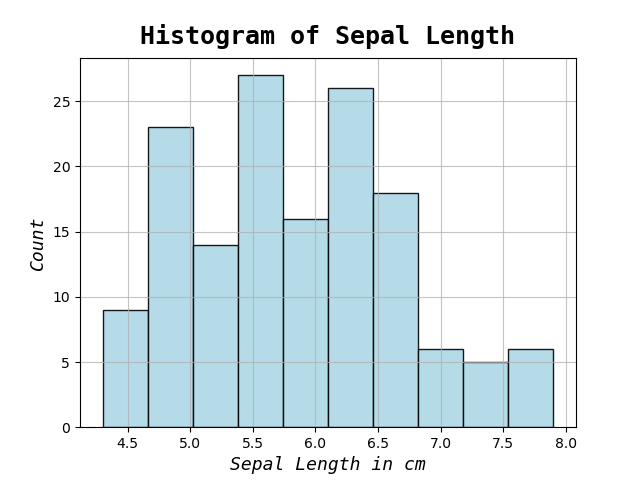
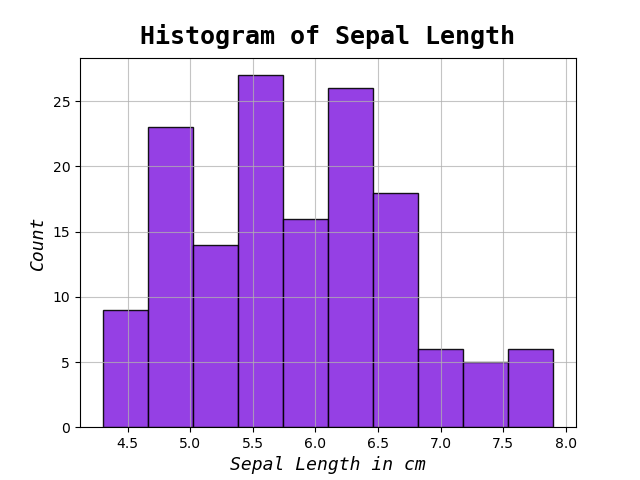
Project histogram updates

Changed region(s): [[0.1562, 0.1562, 0.875, 0.9062]]

diff --git a/analysis.py b/analysis.py
@@ -82,7 +82,7 @@ with open("summary.txt", "a",                       # get buffer content and app
 df.hist("sepal_length",                         # Creating a Histogram only of Sepal Length "iris_histogram_sepal_length.png"             
 ec = "black",                                   # The ec (edge color) parameter define an edge on each bar with black outline.
 lw = 1.0,                                       # The lw (line width) can be increased
-color ="lightblue",                             # The color parameter sets the color of the bars in the histogram.
+color ="blueviolet",                             # The color parameter sets the color of the bars in the histogram.
 alpha = 0.9,                                    # The alpha parameter sets the transparency of the bars.
 label="Sepal Length")                           # Creating a Histogram only of Sepal Length
 
@@ -117,8 +117,8 @@ plt.savefig("iris_histogram_sepal_length.png")
 # iris_histogram_sepal_width.png
 df.hist("sepal_width",                          # Creating a Histogram only of Sepal Width = "iris_histogram_sepal_width.png"         
 ec = "black",                                   # The ec (edge color) parameter define an edge on each bar with black outline.
-lw = 1.0,                                      # The lw (line width) can be increased
-color ="lightblue",                             # The color parameter sets the color of the bars in the histogram.
+lw = 1.0,                                       # The lw (line width) can be increased
+color ="fuchsia",                                # The color parameter sets the color of the bars in the histogram.
 alpha = 0.9,                                    # The alpha parameter sets the transparency of the bars.
 label="Sepal Width")                            # Creating a Histogram only of Sepal Width
 
@@ -152,8 +152,8 @@ plt.savefig("iris_histogram_sepal_width.png")
 # iris_histogram_petal_length.png    
 df.hist("petal_length",                         # Creating a Histogram only of Petal Length "iris_histogram_petal_length.png"             
 ec = "black",                                   # The ec (edge color) parameter define an edge on each bar with black outline.
-lw = 1.0,                                      # The lw (line width) can be increased
-color ="lightblue",                             # The color parameter sets the color of the bars in the histogram.
+lw = 1.0,                                       # The lw (line width) can be increased
+color ="blue",                                  # The color parameter sets the color of the bars in the histogram.
 alpha = 0.9,                                    # The alpha parameter sets the transparency of the bars.
 label="Sepal Length")                           # Creating a Histogram only of Sepal Length
 
@@ -189,7 +189,7 @@ plt.savefig("iris_histogram_petal_length.png")
 df.hist("petal_width",                          # Creating a Histogram only of Petal Width = "iris_histogram_petal_width.png"         
 ec = "black",                                   # The ec (edge color) parameter define an edge on each bar with black outline.
 lw = 1.0,                                      # The lw (line width) can be increased
-color ="lightblue",                             # The color parameter sets the color of the bars in the histogram.
+color ="deepskyblue",                             # The color parameter sets the color of the bars in the histogram.
 alpha = 0.9,                                    # The alpha parameter sets the transparency of the bars.
 label="Petal Width")                            # Creating a Histogram only of Sepal Width
 
@@ -220,163 +220,4 @@ plt.savefig("iris_histogram_petal_width.png")
 
 # plt.show()                                    # show & comment out
 
-plt.close("all") # closing all previous open plots. 
-                 # If not closed here, they will show up from below, when outputting next plots
-
-# TRYING TO GET ALL ONE ONE HISTOGRAM
-
-fig, axs = plt.subplots(2, 2, figsize=(12, 8))
-
-# iris_histogram_sepal_length.png    
-df.hist("sepal_length",                         # Creating a Histogram only of Sepal Length "iris_histogram_sepal_length.png" 
-ax=axs[0, 0],            
-ec = "black",                                   # The ec (edge color) parameter define an edge on each bar with black outline.
-lw = 1.0,                                       # The lw (line width) can be increased
-color ="lightblue",                             # The color parameter sets the color of the bars in the histogram.
-alpha = 0.9,                                    # The alpha parameter sets the transparency of the bars.
-label="Sepal Length")                           # Creating a Histogram only of Sepal Length
-
-ax=axs[0, 0].set_title ("Histogram of Sepal Length",         # Sets the title name
-fontsize=18,                                    # font size = controls the size of the font and sets it to 18.
-loc="center",                                   # loc = The location of the title can be ‘center’, ‘left’, ‘right’.
-horizontalalignment="center",                   # You can adjust with horizontal alignment ('center', 'right', 'left').
-verticalalignment="bottom",                     # the vertical alignment ('top', 'bottom', 'center', 'baseline')
-fontweight="bold",                              # font weight = controls the weight of the font - bold                      
-family="monospace")                             # family = controls the font family of the font - monospace
-
-
-ax=axs[0, 0].set_xlabel("Sepal Length in cm",                # Sets the label for the x-axis
-fontsize=13,                                    # font size = controls the size of the font and sets it to 15
-style="italic",                                 # style = controls the style of the font - italic
-family="monospace")                             # family = controls the font family of the font - monospace                       
-
-ax=axs[0, 0].set_ylabel("Count",                             # Sets the label for the y-axis
-fontsize=13,                                    # font size = controls the size of the font and sets it to 15
-style="italic",                                 # style = controls the style of the font - italic
-family="monospace")                             # family = controls the font family of the font - monospace.
-
-ax=axs[0, 0].set_grid(alpha=0.75)                            # Set a grid with transparency of 0.75
-
-# plt.legend(loc="best")                        # show one attribute, comment out
-
-# plt.savefig("iris_histogram_sepal_length.png")  
-
-# plt.show()                                    # show & comment out
-
-
-# iris_histogram_sepal_width.png
-df.hist("sepal_width",                          # Creating a Histogram only of Sepal Width = "iris_histogram_sepal_width.png"  
-ax=axs[0, 1],       
-ec = "black",                                   # The ec (edge color) parameter define an edge on each bar with black outline.
-lw = 1.0,                                      # The lw (line width) can be increased
-color ="lightblue",                             # The color parameter sets the color of the bars in the histogram.
-alpha = 0.9,                                    # The alpha parameter sets the transparency of the bars.
-label="Sepal Width")                            # Creating a Histogram only of Sepal Width
-
-axs[0, 1].set.title ("Histogram of Sepal Width",          # Sets the title name
-fontsize=18,                                    # font size = controls the size of the font and sets it to 18.
-loc="center",                                   # loc = The location of the title can be ‘center’, ‘left’, ‘right’.
-horizontalalignment="center",                   # You can adjust with horizontal alignment ('center', 'right', 'left').
-verticalalignment="bottom",                     # the vertical alignment ('top', 'bottom', 'center', 'baseline')
-fontweight="bold",                              # font weight = controls the weight of the font - bold                      
-family="monospace")                             # family = controls the font family of the font - monospace
-
-
-axs[0, 1].set_xlabel("Sepal Width in cm",                 # Sets the label for the x-axis
-fontsize=13,                                    # font size = controls the size of the font and sets it to 15
-style="italic",                                 # style = controls the style of the font - italic
-family="monospace")                             # family = controls the font family of the font - monospace                       
-
-axs[0, 1].set_ylabel("Count",                             # Sets the label for the y-axis
-fontsize=13,                                    # font size = controls the size of the font and sets it to 15
-style="italic",                                 # style = controls the style of the font - italic
-family="monospace")                             # family = controls the font family of the font - monospace.
-
-axs[0, 1].set_grid(alpha=0.75)                            # Set a grid with transparency of 0.75
-
-# plt.legend(loc="best")                        # show one attribute, comment out
-
-#plt.savefig("iris_histogram_sepal_width.png")  
-
-# plt.show()                                    # show & comment out
-
-# iris_histogram_petal_length.png    
-df.hist("petal_length",                         # Creating a Histogram only of Petal Length "iris_histogram_petal_length.png"   
-ax=axs[1, 0],          
-ec = "black",                                   # The ec (edge color) parameter define an edge on each bar with black outline.
-lw = 1.0,                                      # The lw (line width) can be increased
-color ="lightblue",                             # The color parameter sets the color of the bars in the histogram.
-alpha = 0.9,                                    # The alpha parameter sets the transparency of the bars.
-label="Sepal Length")                           # Creating a Histogram only of Sepal Length
-
-axs[1, 0].set_title ("Histogram of Petal Length",         # Sets the title name
-fontsize=18,                                    # font size = controls the size of the font and sets it to 18.
-loc="center",                                   # loc = The location of the title can be ‘center’, ‘left’, ‘right’.
-horizontalalignment="center",                   # You can adjust with horizontal alignment ('center', 'right', 'left').
-verticalalignment="bottom",                     # the vertical alignment ('top', 'bottom', 'center', 'baseline')
-fontweight="bold",                              # font weight = controls the weight of the font - bold                      
-family="monospace")                             # family = controls the font family of the font - monospace
-
-
-axs[1, 0].set_xlabel("Petal Length in cm",                # Sets the label for the x-axis
-fontsize=13,                                    # font size = controls the size of the font and sets it to 15
-style="italic",                                 # style = controls the style of the font - italic
-family="monospace")                             # family = controls the font family of the font - monospace                       
-
-axs[1, 0].set_ylabel("Count",                             # Sets the label for the y-axis
-fontsize=13,                                    # font size = controls the size of the font and sets it to 15
-style="italic",                                 # style = controls the style of the font - italic
-family="monospace")                             # family = controls the font family of the font - monospace.
-
-axs[1, 0].set_grid(alpha=0.75)                            # Set a grid with transparency of 0.75
-
-# plt.legend(loc="best")                        # show one attribute, comment out
-
-#plt.savefig("iris_histogram_petal_length.png")  
-
-# plt.show()                                    # show & comment out
-
-
-# iris_histogram_petal_width.png
-df.hist("petal_width",                          # Creating a Histogram only of Petal Width = "iris_histogram_petal_width.png"   
-ax=axs[1, 1],      
-ec = "black",                                   # The ec (edge color) parameter define an edge on each bar with black outline.
-lw = 1.0,                                      # The lw (line width) can be increased
-color ="lightblue",                             # The color parameter sets the color of the bars in the histogram.
-alpha = 0.9,                                    # The alpha parameter sets the transparency of the bars.
-label="Petal Width")                            # Creating a Histogram only of Sepal Width
-
-axs[1, 1].set.title ("Histogram of Petal Width",          # Sets the title name
-fontsize=18,                                    # font size = controls the size of the font and sets it to 18.
-loc="center",                                   # loc = The location of the title can be ‘center’, ‘left’, ‘right’.
-horizontalalignment="center",                   # You can adjust with horizontal alignment ('center', 'right', 'left').
-verticalalignment="bottom",                     # the vertical alignment ('top', 'bottom', 'center', 'baseline')
-fontweight="bold",                              # font weight = controls the weight of the font - bold                      
-family="monospace")                             # family = controls the font family of the font - monospace
-
-
-axs[1, 1].set_xlabel("Sepal Width in cm",                 # Sets the label for the x-axis
-fontsize=13,                                    # font size = controls the size of the font and sets it to 15
-style="italic",                                 # style = controls the style of the font - italic
-family="monospace")                             # family = controls the font family of the font - monospace                       
-
-axs[1, 1].set_ylabel("Count",                             # Sets the label for the y-axis
-fontsize=13,                                    # font size = controls the size of the font and sets it to 15
-style="italic",                                 # style = controls the style of the font - italic
-family="monospace")                             # family = controls the font family of the font - monospace.
-
-axs[1, 1].set_grid(alpha=0.75)                            # Set a grid with transparency of 0.75
-
-# plt.legend(loc="best")                        # show one attribute, comment out
-
-# plt.savefig("iris_histogram_petal_width.png")  
-
-# plt.show()                                    # show & comment out
-
-plt.tight_layout()
-
-plt.savefig("iris_histograms.png")
-
-plt.close("all") # closing all previous open plots. 
-                 # If not closed here, they will show up from below, when outputting next plots
-
+plt.close("all")                                # closing all previous open plots. 
